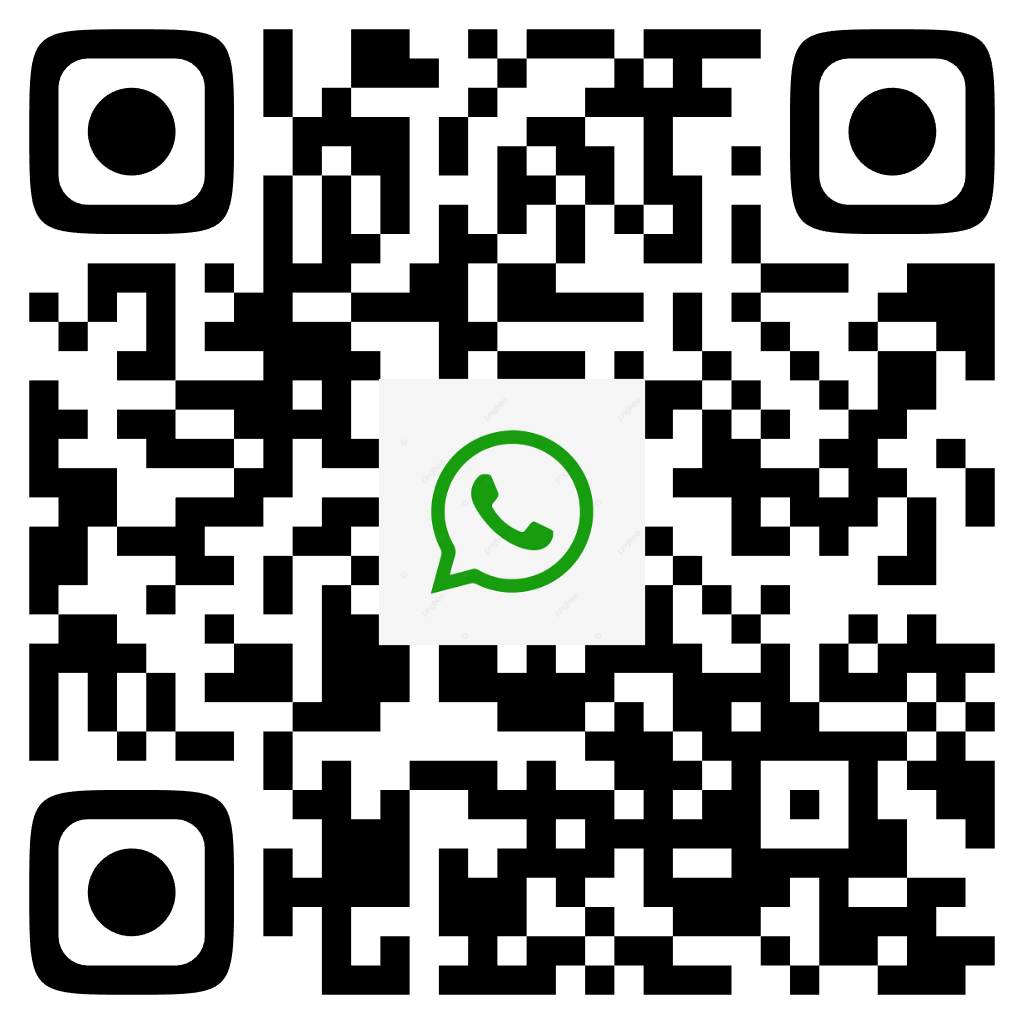
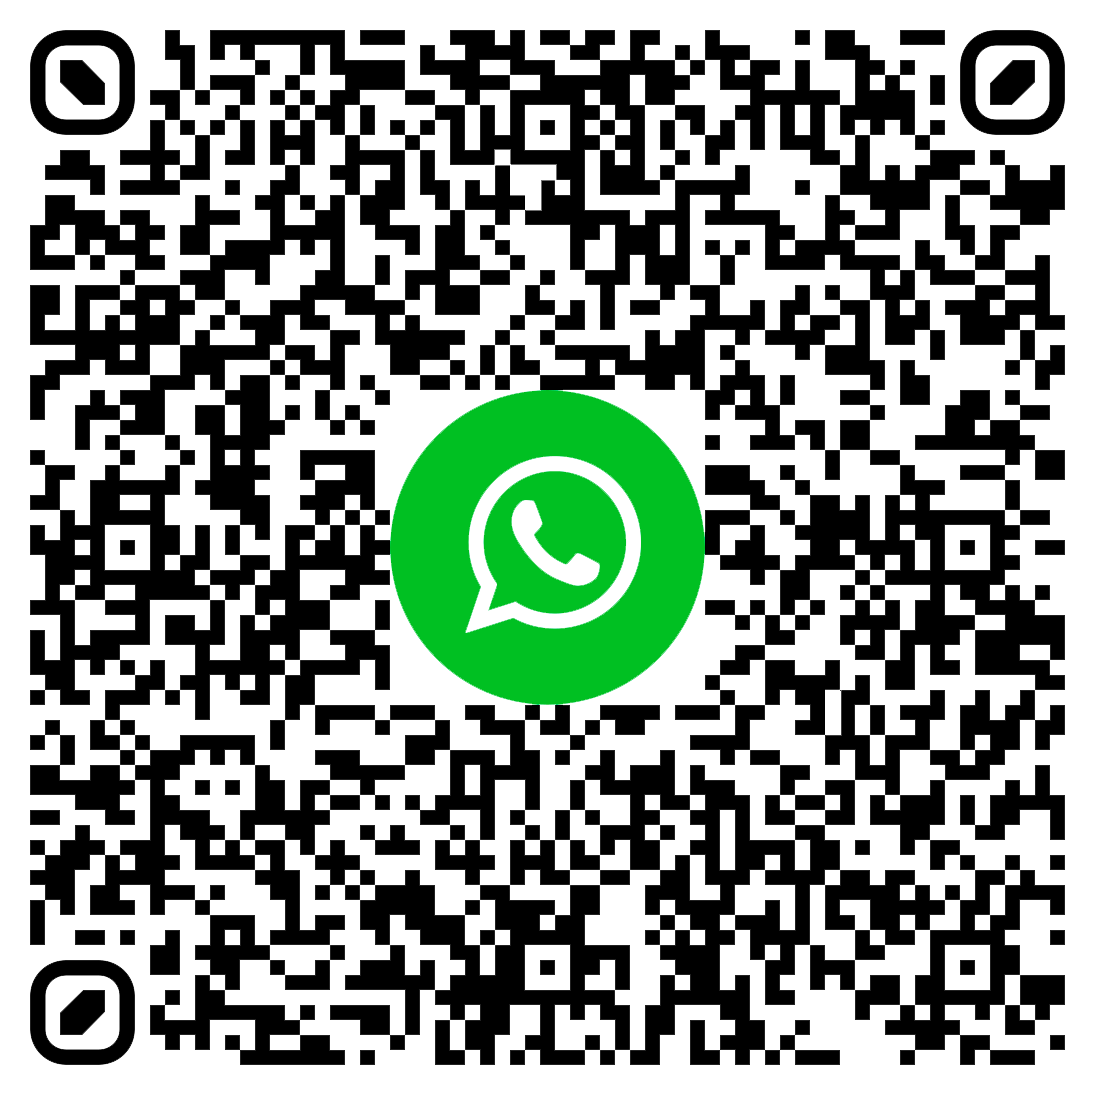
QRs

diff --git a/index.html b/index.html
@@ -567,7 +567,8 @@
 
                 <p class="muted">
                     WhatsApp:
-                    <a href="https://wa.me/5212299036317" style="color:var(--azul); font-weight:bold" target="_blank">
+                    <a href="https://wa.me/5212299036317?text=Buen%20d%C3%ADa%2C%20me%20interesa%20la%20guarder%C3%ADa%2C%20%C2%BFme%20podr%C3%ADa%20dar%20m%C3%A1s%20informes%20por%20favor%3F"
+                        style="color:var(--azul); font-weight:bold" target="_blank">
                         229 903 6317
                     </a>
                 </p>
